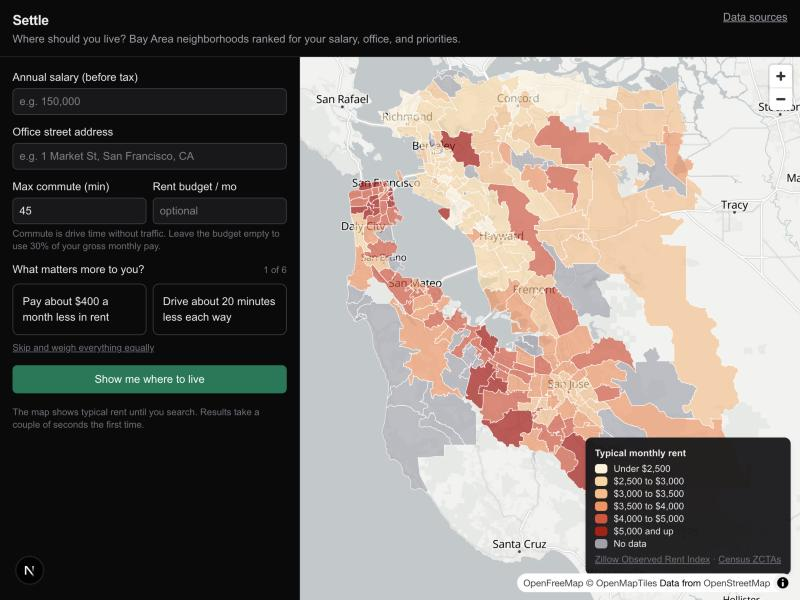
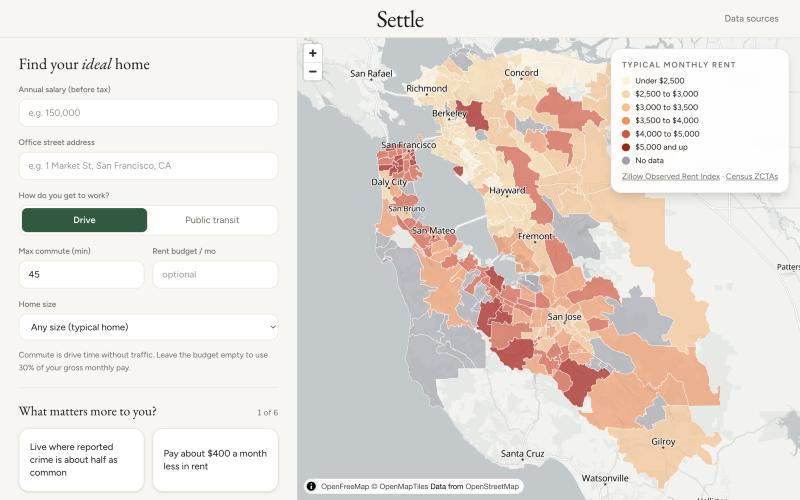
Update README screenshots; fix compare header covering the intro line
- New screenshots of the current app (light mode): start screen with the
  drive / transit choice, results, score card, open-or-compare chooser,
  side-by-side comparison, chat, phone and data sources
- README gallery, title and intro updated to match
- Compare view: the pinned area-name row used an upward shadow to hide rows
  scrolling under it, which also covered the "better value is highlighted"
  line when the table was at the top. It now pins slightly above the panel
  with its own padding instead.

diff --git a/components/CompareView.tsx b/components/CompareView.tsx
@@ -70,7 +70,7 @@ export default function CompareView({ zctas, result, homeType, onRemove, onOpen,
           Close comparison
         </button>
       </div>
-      <p className="-mt-2 mb-4 text-xs text-muted">
+      <p className="-mt-2 text-xs text-muted">
         The better value in each row is highlighted. Click another area on the map to add it.
       </p>
 
@@ -79,11 +79,10 @@ export default function CompareView({ zctas, result, homeType, onRemove, onOpen,
 
       {loaded && (
         <div className="grid" style={gridStyle}>
-          {/* Header row, sticky so area names stay visible while scrolling. The upward shadow in
-              the page color covers the sidebar's top padding, so rows don't peek out above it. */}
+          {/* Header row, sticky so area names stay visible while scrolling (see STICKY). */}
           <div className={`${STICKY} -mx-px`} />
           {cols.map((c) => (
-            <div key={c.details.zcta} className={`${STICKY} px-2 pb-3 pt-1`}>
+            <div key={c.details.zcta} className={`${STICKY} px-2 pb-3`}>
               <div className="flex items-start justify-between gap-1">
                 <button type="button" onClick={() => onOpen(c.details.zcta)} className="min-w-0 text-left" title="Open the full card">
                   <span className="block truncate font-serif text-xl leading-tight hover:underline">{c.details.name ?? "Area"}</span>
@@ -131,7 +130,9 @@ export default function CompareView({ zctas, result, homeType, onRemove, onOpen,
   );
 }
 
-const STICKY = "sticky top-0 z-10 border-b border-line bg-paper shadow-[0_-1.5rem_0_0_var(--paper)]";
+// Pinned 1.5rem above the scroll area's top (-top-6) with matching extra padding (pt-7), so the
+// header covers the sidebar's top padding while scrolling and rows never peek out above it.
+const STICKY = "sticky -top-6 z-10 border-b border-line bg-paper pt-7";
 
 function ValueCell({ cell, best }: { cell: Cell; best: boolean }) {
   return (

diff --git a/README.md b/README.md
@@ -1,18 +1,18 @@
-# Settle: where should I live?
+# Settle: find your ideal home
 
 Settle answers one question for someone moving to the San Francisco Bay Area: **given my salary, my office, and what I care about, which neighborhoods should I live in?**
 
-You enter a salary, an office address, a maximum commute, the home size you want (a room in a shared home, a studio, or 1-4 bedrooms) and your priorities. Settle ranks the 208 ZIP code areas in San Francisco, San Mateo, Santa Clara, Alameda and Contra Costa counties, colors them on a map, and explains every score with numbers linked to their sources. A chat box handles "what if" questions and updates the map live.
+You enter a salary, an office address, whether you drive or take public transit, a maximum commute, the home size you want (a room in a shared home, a studio, or 1-4 bedrooms) and your priorities. Settle ranks the 208 ZIP code areas in San Francisco, San Mateo, Santa Clara, Alameda and Contra Costa counties, colors them on a map, and explains every score with numbers linked to their sources. You can put two or three areas side by side, with the better value in each row highlighted. A chat box handles "what if" questions, knows which areas you're looking at, and updates the map live.
 
-![Results: heat map, top 5 and chat](docs/screenshots/2-results-heat-map.jpg)
+![Results: heat map and top 5](docs/screenshots/2-results-heat-map.jpg)
 
-| Score breakdown | Hidden risks and city crime | Chat |
+| Score breakdown | Open or compare | Side-by-side comparison |
 |---|---|---|
-| ![Score card](docs/screenshots/3-area-card-score.jpg) | ![Risks](docs/screenshots/4-area-card-risks-fbi.jpg) | ![Chat](docs/screenshots/5-chat.jpg) |
+| ![Score card](docs/screenshots/3-area-card-score.jpg) | ![Open or add to compare](docs/screenshots/4-open-or-compare.jpg) | ![Compare](docs/screenshots/5-compare.jpg) |
 
-| Start (rent map) | Phone | Data sources page |
-|---|---|---|
-| ![Start](docs/screenshots/1-start-rent-map.jpg) | ![Phone](docs/screenshots/6-phone-results.jpg) | ![Sources](docs/screenshots/7-sources.jpg) |
+| Chat | Start (rent map, drive or transit) | Phone | Data sources page |
+|---|---|---|---|
+| ![Chat](docs/screenshots/6-chat.jpg) | ![Start](docs/screenshots/1-start-rent-map.jpg) | ![Phone](docs/screenshots/7-phone-results.jpg) | ![Sources](docs/screenshots/8-sources.jpg) |
 
 ## How it works
 
@@ -115,4 +115,4 @@ Tests never call paid APIs; network clients are injected or faked.
 
 ## Status
 
-v1 milestones M0–M5 are complete; M6 (polish) is in progress. Not deployed yet. v2 ideas (two offices, transit, listings, side-by-side comparison, schools and air quality) are in `CLAUDE.md`.
+v1 milestones M0–M5 are complete; M6 (polish) is in progress. Not deployed yet. From v2, public-transit commutes and side-by-side comparison are done; the rest (two offices, listings, schools and air quality) is in `CLAUDE.md`.
